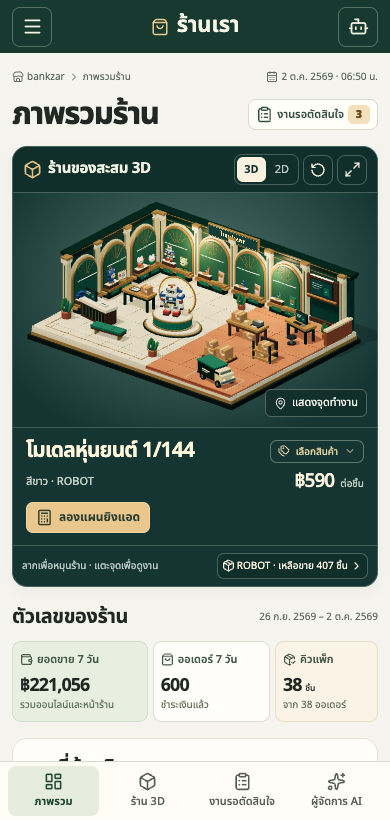
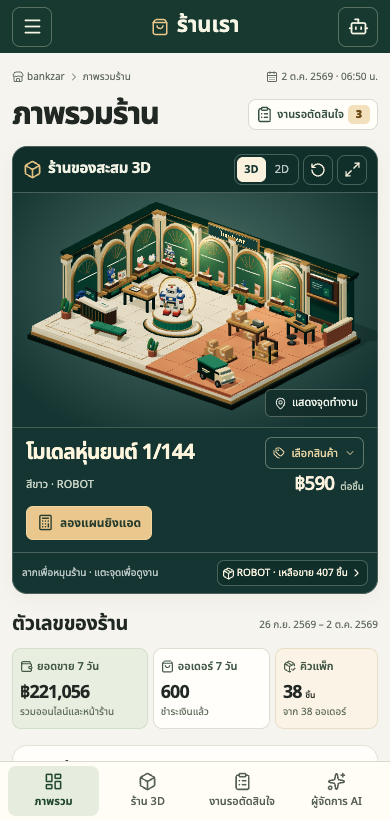
Keep product names readable and enlarge mobile gallery controls

diff --git a/src/styles.css b/src/styles.css
@@ -134,7 +134,8 @@ small { font-size: 11px; line-height: 1.4; }
 .change-piece,.piece-plan { display: inline-flex; align-items: center; justify-content: center; gap: 6px; border-radius: 7px; font-size: 12px; }
 .change-piece { padding: 3px 7px; color: #e8d4a4; border: 1px solid #60776b; background: transparent; }
 .change-piece:hover { background: #25483b; }
-.showpiece h3 { color: #fff6dd; margin: 15px 0 2px; font-weight: 650; letter-spacing: -.04em; font-size: clamp(24px,2.15vw,37px); line-height: 1.36; text-wrap: pretty; }
+.showpiece h3 { color: #fff6dd; margin: 15px 0 2px; font-weight: 650; letter-spacing: -.04em; font-size: clamp(24px,2.15vw,37px); line-height: 1.36; text-wrap: wrap; }
+.piece-word { display: inline-block; max-width: 100%; }
 .showpiece p { color: #c7d4c7; font-size: 12px; }
 .piece-price { display: flex; align-items: baseline; gap: 6px; font-size: 26px; letter-spacing: -.05em; font-variant-numeric: tabular-nums; font-weight: 560; margin: 9px 0 14px; }
 .piece-price span { color: #c3d0be; font-size: 11px; font-weight: 400; letter-spacing: 0; }
@@ -318,11 +319,11 @@ td small { display: block; color: var(--muted); }
   .showpiece { display: grid; grid-template-columns: minmax(0,1fr) auto; grid-template-areas: "name choose" "sku price" "action action"; align-items: center; justify-content: initial; column-gap: 6px; padding: 9px 13px 12px; border-top: 1px solid #415e51; }
   .showpiece h3 { grid-area: name; font-size: 21px; margin: 0; text-align: left; text-wrap: initial; }
   .showpiece p { grid-area: sku; font-size: 11px; }
-  .change-piece { grid-area: choose; justify-self: end; font-size: 10px; }
+  .change-piece { grid-area: choose; justify-self: end; font-size: 11px; min-height: 32px; }
   .change-piece svg { width: 12px; height: 12px; }
   .piece-price { grid-area: price; justify-self: end; margin: 1px 0; font-size: 19px; }
   .piece-price span { font-size: 10px; }
-  .piece-plan { grid-area: action; justify-self: start; margin-top: 5px; font-size: 12px; padding: 5px 9px; }
+  .piece-plan { grid-area: action; justify-self: start; margin-top: 5px; font-size: 12px; padding: 7px 10px; }
   .scene-caption { padding: 7px 9px; font-size: 10px; gap: 5px; }
   .scene-caption button { gap: 2px; font-size: 10px; padding: 4px; }
   .scene-caption button svg { width: 13px; }

diff --git a/src/App.tsx b/src/App.tsx
@@ -304,7 +304,8 @@ export default function App() {
     </div>
     {spotlight && <div className="showpiece">
       <button className="change-piece" onClick={() => setLayer({kind:'selector'})}><Tags size={15}/> เลือกสินค้า <ChevronDown size={14}/></button>
-      <h3>{spotlight.productName}</h3>
+      <h3>{spotlight.productName.split(/\s+/).map((word, index) =>
+        <span key={index}>{index > 0 && ' '}<span className="piece-word">{word}</span></span>)}</h3>
       <p>{[spotlight.name, spotlight.sellerSku].filter(Boolean).join(' · ')}</p>
       <div className="piece-price">{baht(spotlight.price)}<span>ต่อชิ้น</span></div>
       <button className="piece-plan" onClick={() => setMode('ads')}><Calculator size={17}/> ลองแผนยิงแอด</button>

diff --git a/docs/verification.md b/docs/verification.md
@@ -28,8 +28,8 @@ The gallery redesign was also checked at 1440, 390 and 360 pixels. The product f
 
 ![Desktop shop](screenshots/shop-3d.png)
 
-The following screenshot records the hosted assistant test before the interface redesign.
+The published dashboard displayed the earlier assistant answer in the shared chat. The live check also opened the guide, the advertising plan, and the case list.
 
-![Hosted conversation during the earlier acceptance test](screenshots/hosted-demo.png)
+![Conversation on the redesigned public demo](screenshots/hosted-demo.png)
 
 Additional checks: [domain scenarios](domain-verification.md). Run the destructive browser test only on a disposable local data directory using SHOP_UI_TEST_URL and scripts/check-ui.mjs. For the read-only layout test use TEST_ORIGIN and scripts/check-plan-layout.mjs.
